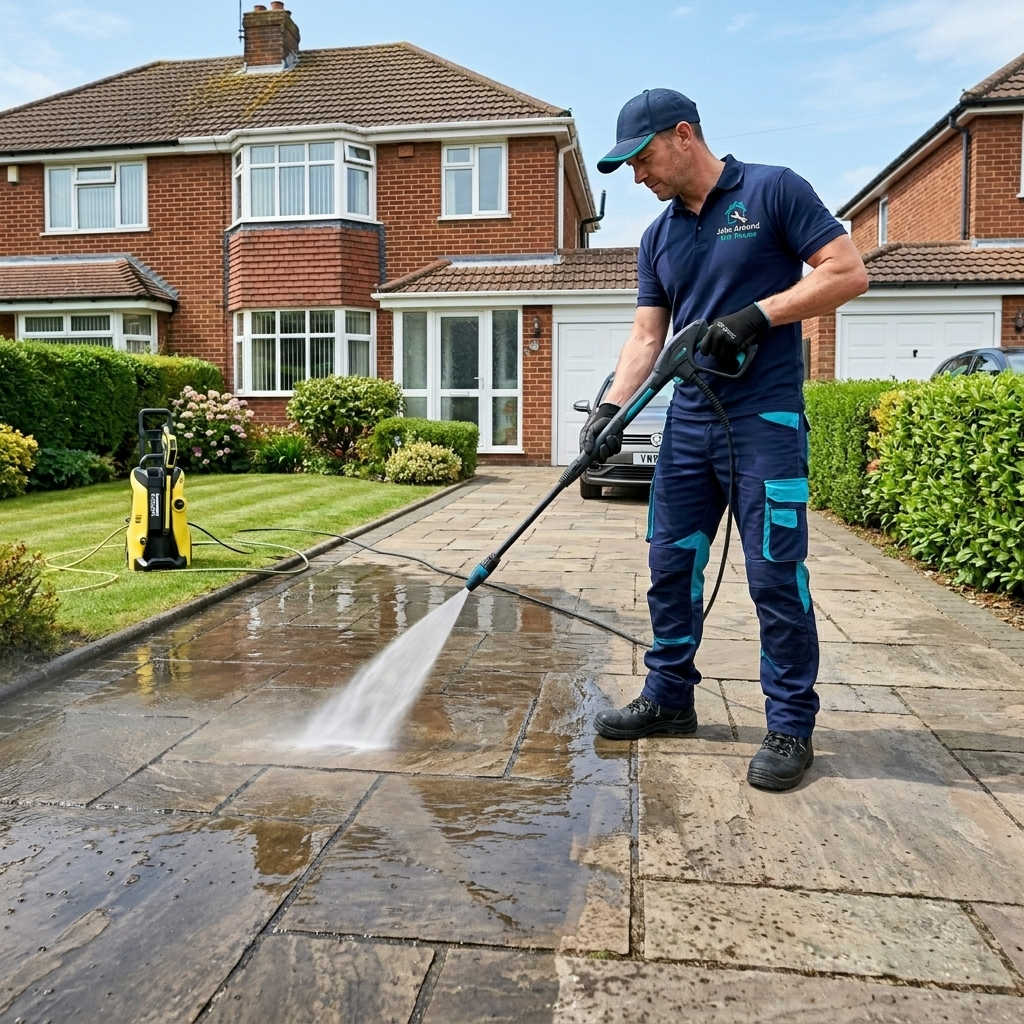
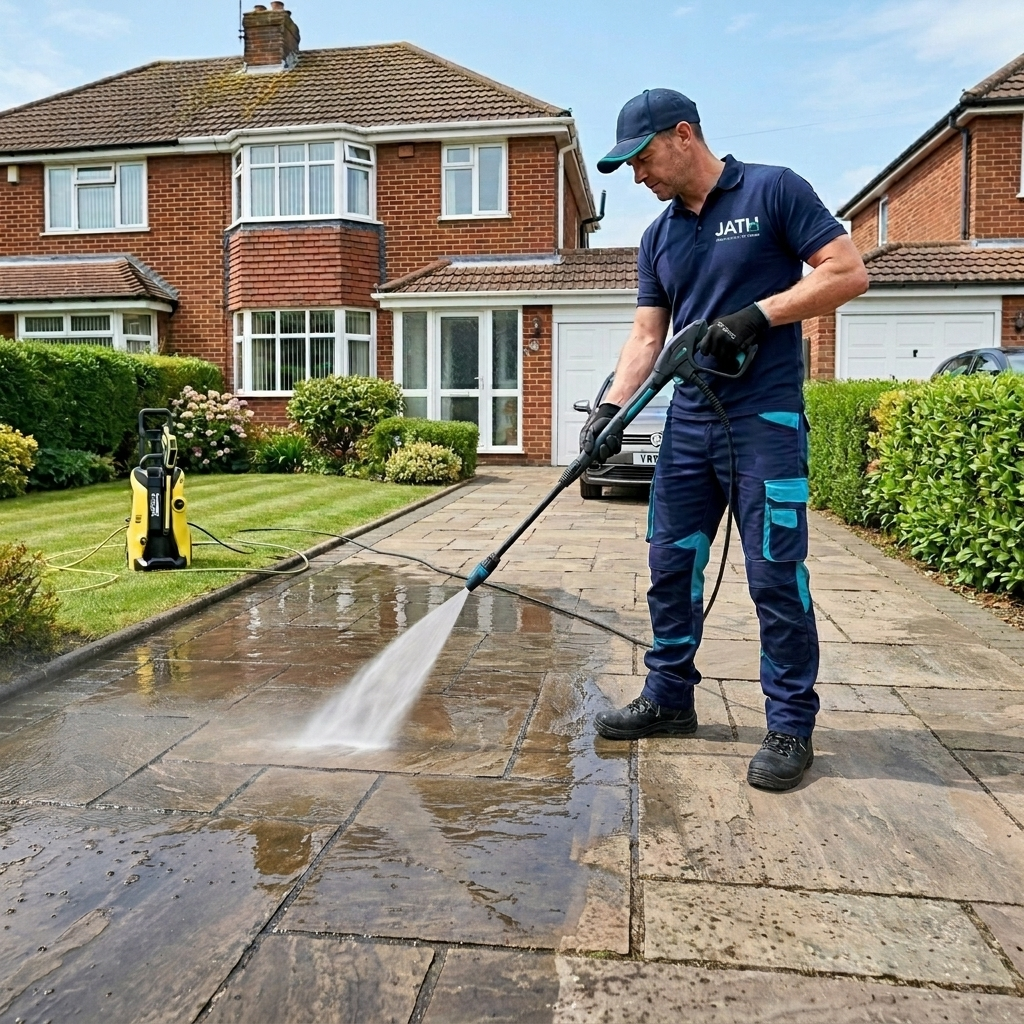
feat: implement core booking system with admin workflow management and asset seeding

diff --git a/jobs-around-the-house/prisma/seed-hero-images.ts b/jobs-around-the-house/prisma/seed-hero-images.ts
@@ -29,71 +29,70 @@ const heroImagesByCategory: Record<string, HeroImageEntry[]> = {
         { filename: "shed-demolish.png", imageUrl: "/hero/shed-demolish.png" },
         { filename: "shed-base.png", imageUrl: "/hero/shed-base.png" },
         { filename: "shed-summer.png", imageUrl: "/hero/shed-summer.png" },
-        // shed-roof.png — pending generation (quota hit)
+        { filename: "shed-roof.png", imageUrl: "/hero/shed-roof.png" },
     ],
 
     // ===== TECH INSTALLATION =====
-    // Already has 6 images, will add 5 more when quota resets
     "tech-installation": [
-        // { filename: "tech-soundbar.png", imageUrl: "/hero/tech-soundbar.png" },
-        // { filename: "tech-router.png", imageUrl: "/hero/tech-router.png" },
-        // { filename: "tech-projector.png", imageUrl: "/hero/tech-projector.png" },
-        // { filename: "tech-smart-home.png", imageUrl: "/hero/tech-smart-home.png" },
-        // { filename: "tech-cabling.png", imageUrl: "/hero/tech-cabling.png" },
+        { filename: "tech-soundbar.png", imageUrl: "/hero/tech-soundbar.png" },
+        { filename: "tech-router.png", imageUrl: "/hero/tech-router.png" },
+        { filename: "tech-projector.png", imageUrl: "/hero/tech-projector.png" },
+        { filename: "tech-smart-home.png", imageUrl: "/hero/tech-smart-home.png" },
+        { filename: "tech-cabling.png", imageUrl: "/hero/tech-cabling.png" },
     ],
 
     // ===== FENCING =====
     fencing: [
-        // { filename: "fence-gate.png", imageUrl: "/hero/fence-gate.png" },
-        // { filename: "fence-post.png", imageUrl: "/hero/fence-post.png" },
-        // { filename: "fence-trellis.png", imageUrl: "/hero/fence-trellis.png" },
-        // { filename: "fence-close-board.png", imageUrl: "/hero/fence-close-board.png" },
-        // { filename: "fence-repair.png", imageUrl: "/hero/fence-repair.png" },
+        { filename: "fence-gate.png", imageUrl: "/hero/fence-gate.png" },
+        { filename: "fence-post.png", imageUrl: "/hero/fence-post.png" },
+        { filename: "fence-trellis.png", imageUrl: "/hero/fence-trellis.png" },
+        { filename: "fence-close-board.png", imageUrl: "/hero/fence-close-board.png" },
+        { filename: "fence-repair.png", imageUrl: "/hero/fence-repair.png" },
     ],
 
     // ===== FLAT-PACK ASSEMBLY =====
     "flat-pack-assembly": [
-        // { filename: "flatpack-desk.png", imageUrl: "/hero/flatpack-desk.png" },
-        // { filename: "flatpack-bookshelf.png", imageUrl: "/hero/flatpack-bookshelf.png" },
-        // { filename: "flatpack-bed.png", imageUrl: "/hero/flatpack-bed.png" },
-        // { filename: "flatpack-kitchen.png", imageUrl: "/hero/flatpack-kitchen.png" },
-        // { filename: "flatpack-drawers.png", imageUrl: "/hero/flatpack-drawers.png" },
+        { filename: "flatpack-desk.png", imageUrl: "/hero/flatpack-desk.png" },
+        { filename: "flatpack-bookshelf.png", imageUrl: "/hero/flatpack-bookshelf.png" },
+        { filename: "flatpack-bed.png", imageUrl: "/hero/flatpack-bed.png" },
+        { filename: "flatpack-kitchen.png", imageUrl: "/hero/flatpack-kitchen.png" },
+        { filename: "flatpack-drawers.png", imageUrl: "/hero/flatpack-drawers.png" },
     ],
 
     // ===== GARDEN & CLEARANCE =====
     "garden-clearance": [
-        // { filename: "garden-hedge.png", imageUrl: "/hero/garden-hedge.png" },
-        // { filename: "garden-lawn.png", imageUrl: "/hero/garden-lawn.png" },
-        // { filename: "garden-waste.png", imageUrl: "/hero/garden-waste.png" },
-        // { filename: "garden-planting.png", imageUrl: "/hero/garden-planting.png" },
-        // { filename: "garden-strimming.png", imageUrl: "/hero/garden-strimming.png" },
+        { filename: "garden-hedge.png", imageUrl: "/hero/garden-hedge.png" },
+        { filename: "garden-lawn.png", imageUrl: "/hero/garden-lawn.png" },
+        { filename: "garden-waste.png", imageUrl: "/hero/garden-waste.png" },
+        { filename: "garden-planting.png", imageUrl: "/hero/garden-planting.png" },
+        { filename: "garden-strimming.png", imageUrl: "/hero/garden-strimming.png" },
     ],
 
     // ===== PICTURE & MIRROR HANGING =====
     "picture-hanging": [
-        // { filename: "picture-gallery.png", imageUrl: "/hero/picture-gallery.png" },
-        // { filename: "picture-mirror.png", imageUrl: "/hero/picture-mirror.png" },
-        // { filename: "picture-shelves.png", imageUrl: "/hero/picture-shelves.png" },
-        // { filename: "picture-canvas.png", imageUrl: "/hero/picture-canvas.png" },
-        // { filename: "picture-frame.png", imageUrl: "/hero/picture-frame.png" },
+        { filename: "picture-gallery.png", imageUrl: "/hero/picture-gallery.png" },
+        { filename: "picture-mirror.png", imageUrl: "/hero/picture-mirror.png" },
+        { filename: "picture-shelves.png", imageUrl: "/hero/picture-shelves.png" },
+        { filename: "picture-canvas.png", imageUrl: "/hero/picture-canvas.png" },
+        { filename: "picture-frame.png", imageUrl: "/hero/picture-frame.png" },
     ],
 
     // ===== GUTTERING SERVICES =====
     guttering: [
-        // { filename: "gutter-clean.png", imageUrl: "/hero/gutter-clean.png" },
-        // { filename: "gutter-repair.png", imageUrl: "/hero/gutter-repair.png" },
-        // { filename: "gutter-replace.png", imageUrl: "/hero/gutter-replace.png" },
-        // { filename: "gutter-downpipe.png", imageUrl: "/hero/gutter-downpipe.png" },
-        // { filename: "gutter-fascia.png", imageUrl: "/hero/gutter-fascia.png" },
+        { filename: "gutter-clean.png", imageUrl: "/hero/gutter-clean.png" },
+        { filename: "gutter-repair.png", imageUrl: "/hero/gutter-repair.png" },
+        { filename: "gutter-replace.png", imageUrl: "/hero/gutter-replace.png" },
+        { filename: "gutter-downpipe.png", imageUrl: "/hero/gutter-downpipe.png" },
+        { filename: "gutter-fascia.png", imageUrl: "/hero/gutter-fascia.png" },
     ],
 
     // ===== GENERAL DIY =====
     "general-diy": [
-        // { filename: "diy-shelving.png", imageUrl: "/hero/diy-shelving.png" },
-        // { filename: "diy-curtain.png", imageUrl: "/hero/diy-curtain.png" },
-        // { filename: "diy-door.png", imageUrl: "/hero/diy-door.png" },
-        // { filename: "diy-tiling.png", imageUrl: "/hero/diy-tiling.png" },
-        // { filename: "diy-painting.png", imageUrl: "/hero/diy-painting.png" },
+        { filename: "diy-shelving.png", imageUrl: "/hero/diy-shelving.png" },
+        { filename: "diy-curtain.png", imageUrl: "/hero/diy-curtain.png" },
+        { filename: "diy-door.png", imageUrl: "/hero/diy-door.png" },
+        { filename: "diy-tiling.png", imageUrl: "/hero/diy-tiling.png" },
+        { filename: "diy-painting.png", imageUrl: "/hero/diy-painting.png" },
     ],
 };
 

diff --git a/jobs-around-the-house/scripts/count-heroes.ts b/jobs-around-the-house/scripts/count-heroes.ts
@@ -1,0 +1,17 @@
+import prisma from "../src/lib/prisma";
+
+async function main() {
+    const cats = await prisma.category.findMany({
+        select: {
+            name: true,
+            _count: { select: { heroImages: true } },
+        },
+        orderBy: { sortOrder: "asc" },
+    });
+    cats.forEach((c) =>
+        console.log(`${c.name}: ${c._count.heroImages} images`)
+    );
+    await prisma.$disconnect();
+}
+
+main();
